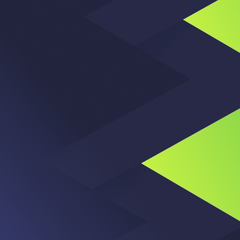
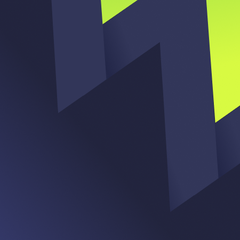
Novos padroes na Central de Ofertas e metrica Total ganho
- Cinco artes de fundo no lugar das tres anteriores; com 6 atalhos,
  so o ultimo repete
- Terceiro stat card passa de "Total apostado" para "Total ganho",
  com a legenda do grafico acompanhando

diff --git a/src/components/ShortcutRail.vue b/src/components/ShortcutRail.vue
@@ -5,9 +5,11 @@ import { shortcuts } from '../data/player'
 import bg1 from '../assets/tile-bg-1.png'
 import bg2 from '../assets/tile-bg-2.png'
 import bg3 from '../assets/tile-bg-3.png'
+import bg4 from '../assets/tile-bg-4.png'
+import bg5 from '../assets/tile-bg-5.png'
 
-/** os três padrões se alternam pelos cards, nunca repetindo lado a lado */
-const fundos = [bg1, bg2, bg3]
+/** os cinco padrões se alternam pelos cards; com 6 atalhos, só o último repete */
+const fundos = [bg1, bg2, bg3, bg4, bg5]
 </script>
 
 <template>

diff --git a/src/data/player.ts b/src/data/player.ts
@@ -78,13 +78,13 @@ export const metrics: Metric[] = [
     days: serie([8, 11, 9, 14, 12, 10, 13, 11, 16, 12, 11, 18, 15, 22]),
   },
   {
-    key: 'apostado',
-    label: 'Total apostado',
+    key: 'ganho',
+    label: 'Total ganho',
     value: 'R$ 42,8k',
     hint: '+8,4%',
     trendUp: true,
     color: '#ff7ab8',
-    cap: 'Apostado · últimos 14 dias',
+    cap: 'Ganho · últimos 14 dias',
     delta: 8.4,
     unit: '',
     money: true,
